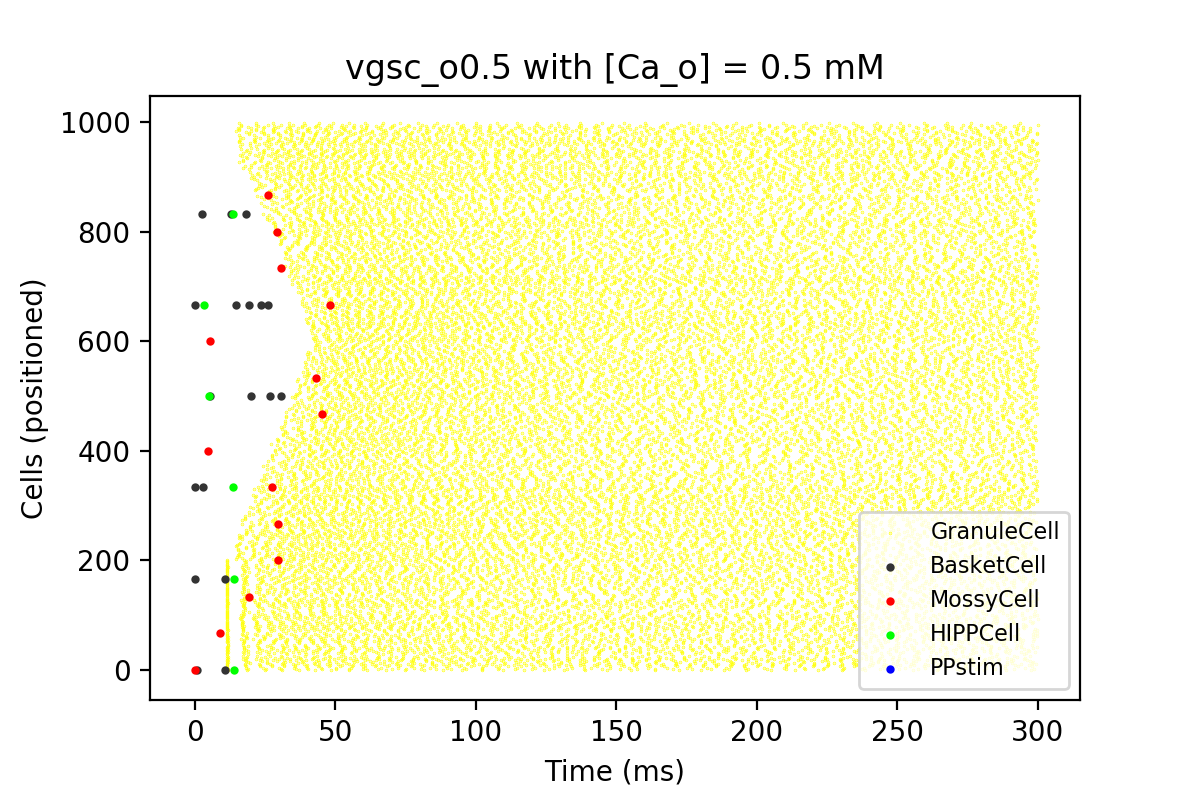
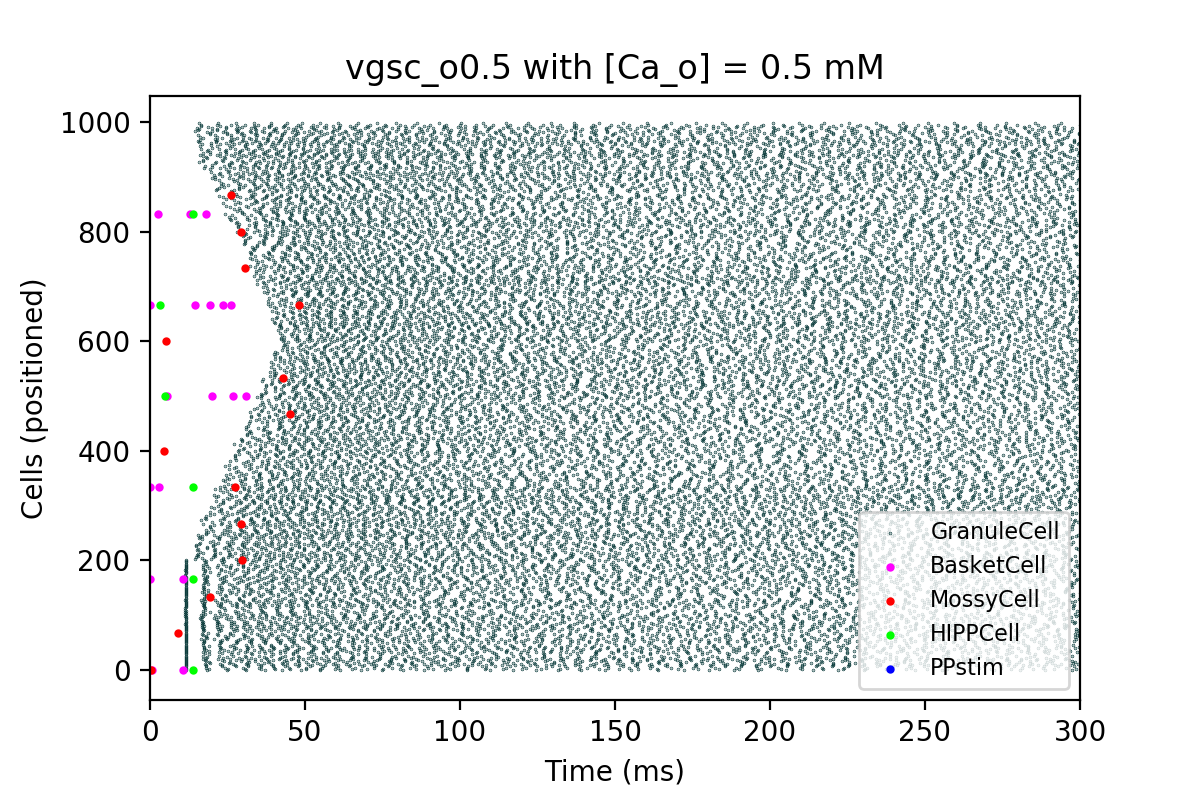
Updated plots function with stylistic changes & updated plots for VGSC

diff --git a/vs/plots.py b/vs/plots.py
@@ -43,14 +43,14 @@ def plots(ROI, caovar, plotstyle=1): # originally took caivar--redundant now due
                 cell_ranges[cell["celltype"]] = [int(cell["rangeStart"]),int(cell["rangeEnd"])+1]
         
         # Plotting interspersed cells in different colors by cell type:
-        pt_colors=[np.array([1,1,0]),np.array([.2,.2,.2]),np.array([1,0,0]),np.array([0,1,0]),np.array([0,0,1])]
+        pt_colors=[np.array([0,.2,.2]),np.array([1,0,1]),np.array([1,0,0]),np.array([0,1,0]),np.array([0,0,1])]
         #pt_colors=[np.array([1,1,0]),np.array([.2,0,.4]),np.array([1,.5,0]),np.array([.2,1,.9]),np.array([.8,.5,.8])]
         pt_c=0
         for key in cell_ranges:
             tmpdata = mydata[(mydata[:,1]>=cell_ranges[key][0]) & (mydata[:,1]<cell_ranges[key][1])]
             plotpos = (tmpdata[:,1] - cell_ranges[key][0])/(cell_ranges[key][1]-cell_ranges[key][0])*1000
             if (len(plotpos)==1 and plotpos[0]==0):
-                plt.scatter(tmpdata[:,0],plotpos,s=20,c=pt_colors[pt_c].reshape(1,-1),label=key)
+                plt.scatter(tmpdata[:,0],plotpos,s=20,c=pt_colors[pt_c].reshape(1,-1),label=key)#pt_colors[pt_c].reshape(1,-1)
             elif (len(plotpos)/len(mydata)<.5):
                 plt.scatter(tmpdata[:,0],plotpos,s=4,c=pt_colors[pt_c].reshape(1,-1),label=key)
             else:
@@ -60,7 +60,7 @@ def plots(ROI, caovar, plotstyle=1): # originally took caivar--redundant now due
         plt.ylabel("Cells (positioned)")
         plt.legend(loc="lower right",fontsize=8)
         
-    #plt.xlim([200, 300])
+    plt.xlim([0, 300])
     #plt.title("{} with [Ca_i] = {} mM, [Ca_o] = {} mM".format(ROI, caivar, caovar))
     plt.title("{} with [Ca_o] = {} mM".format(ROI, caovar))
     plt.xlabel("Time (ms)")
